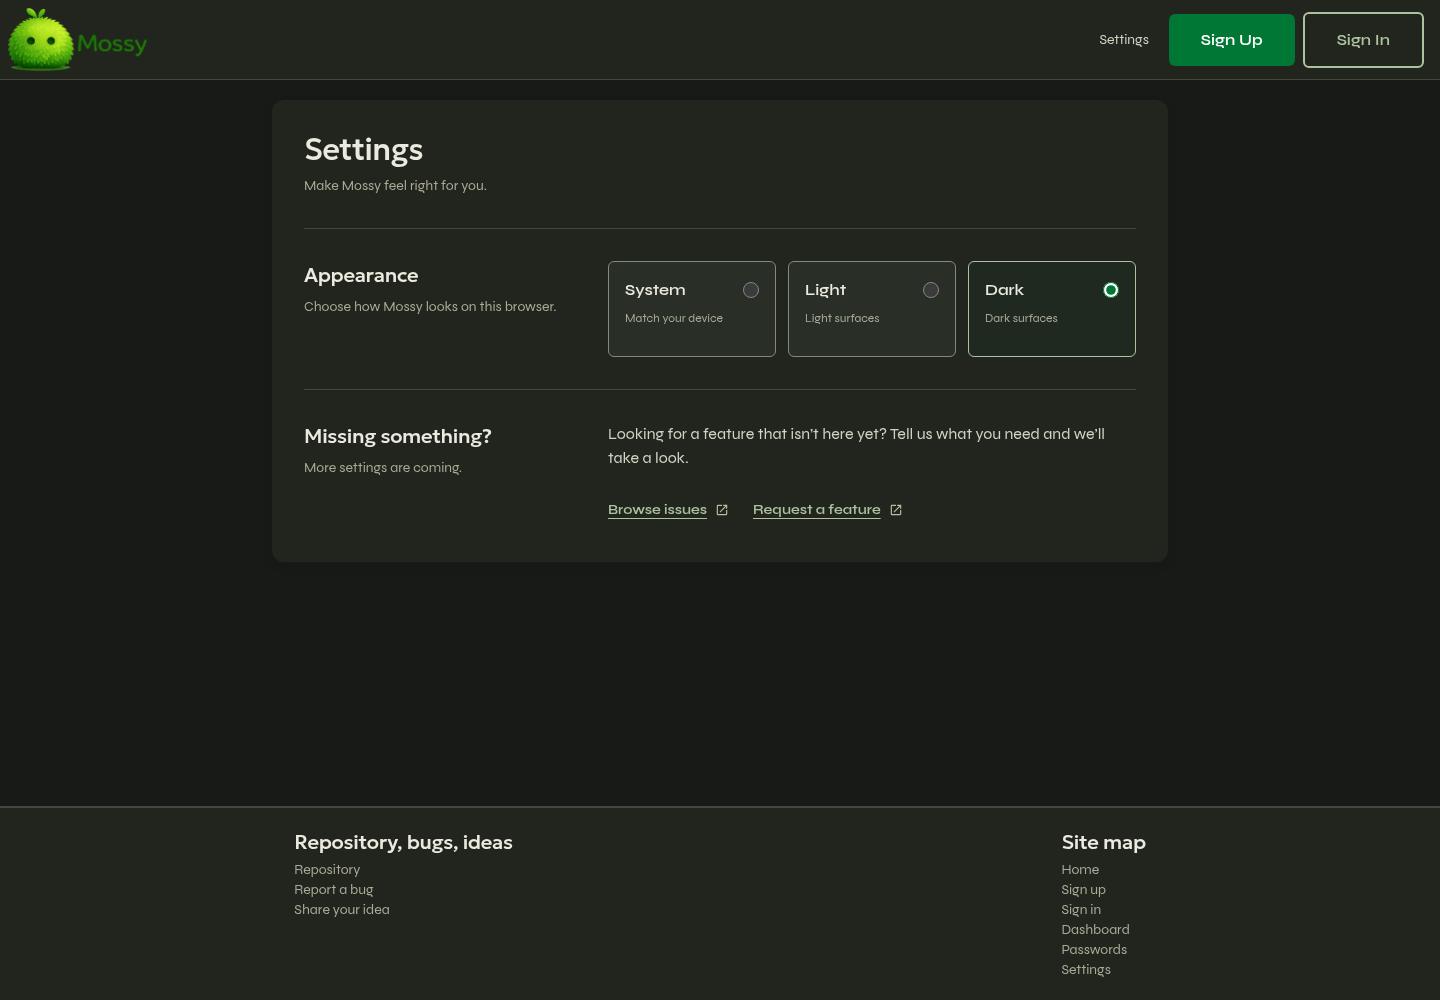
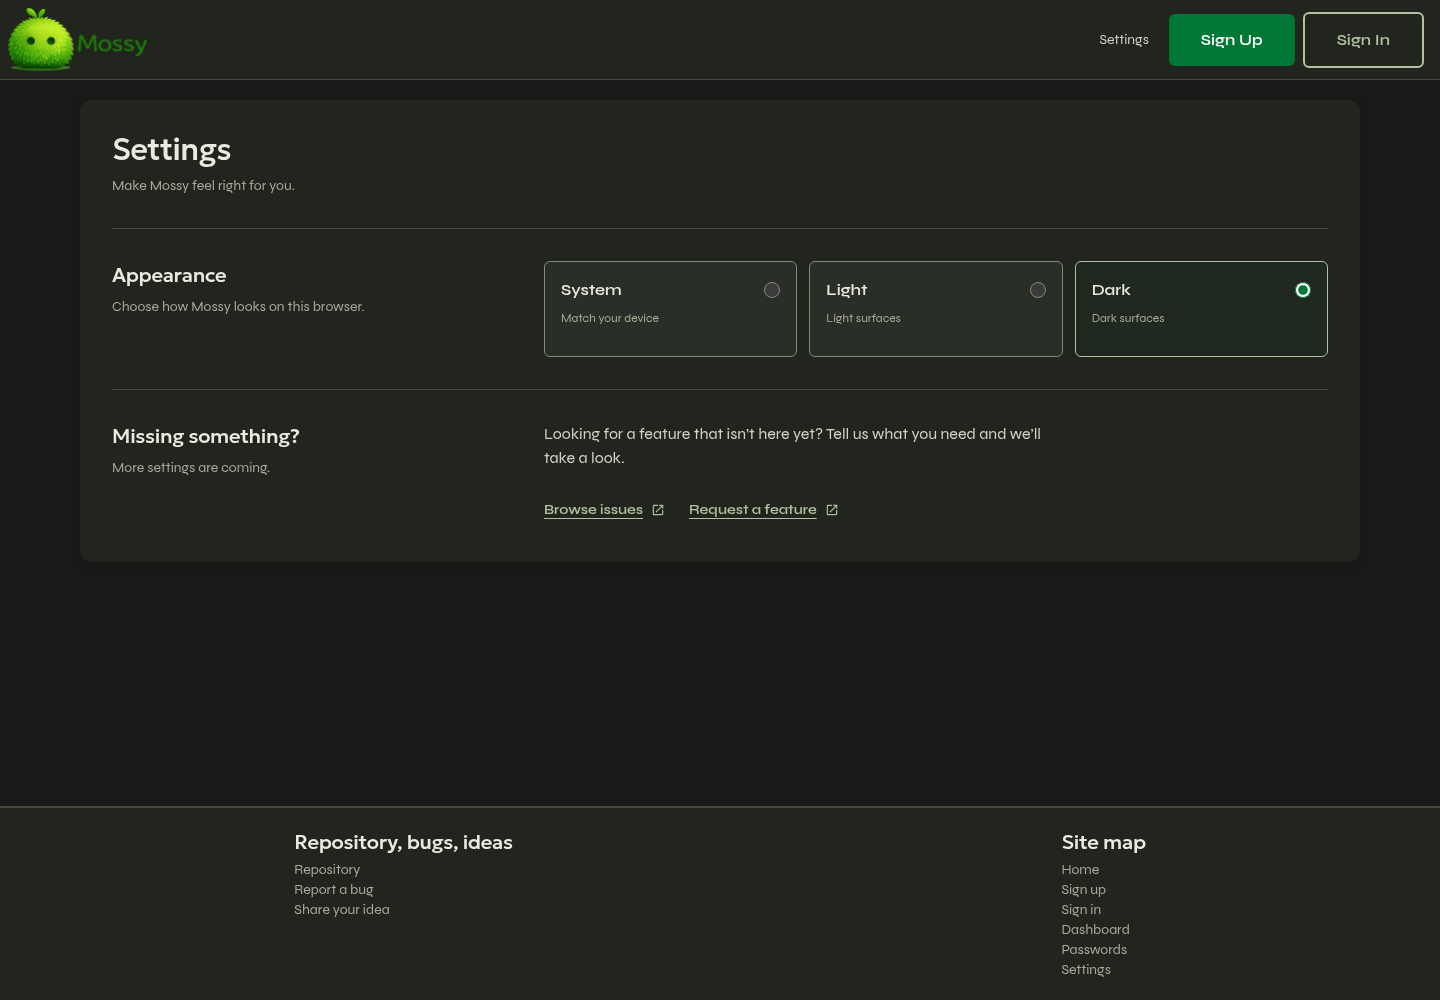
fix(frontend): match Settings width to Vaults

diff --git a/mossy-frontend/src/routes/Settings.tsx b/mossy-frontend/src/routes/Settings.tsx
@@ -22,7 +22,7 @@ export default function Settings() {
 
     return (
         <div className="w-full px-4 py-5">
-            <div className="mx-auto w-full max-w-4xl rounded-xl bg-surface p-6 shadow-card sm:p-8">
+            <div className="mx-auto w-full max-w-7xl rounded-xl bg-surface p-6 shadow-card sm:p-8">
                 <header className="mb-8">
                     <h1 className="text-3xl">Settings</h1>
                     <p className="mt-2 text-sm text-fg-muted">
